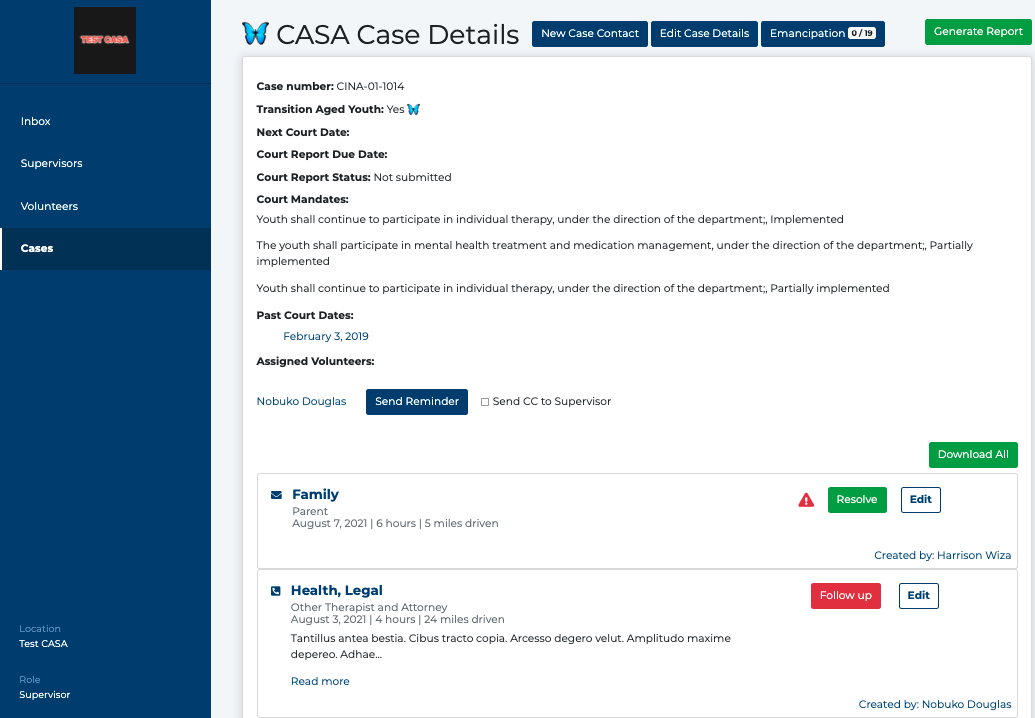
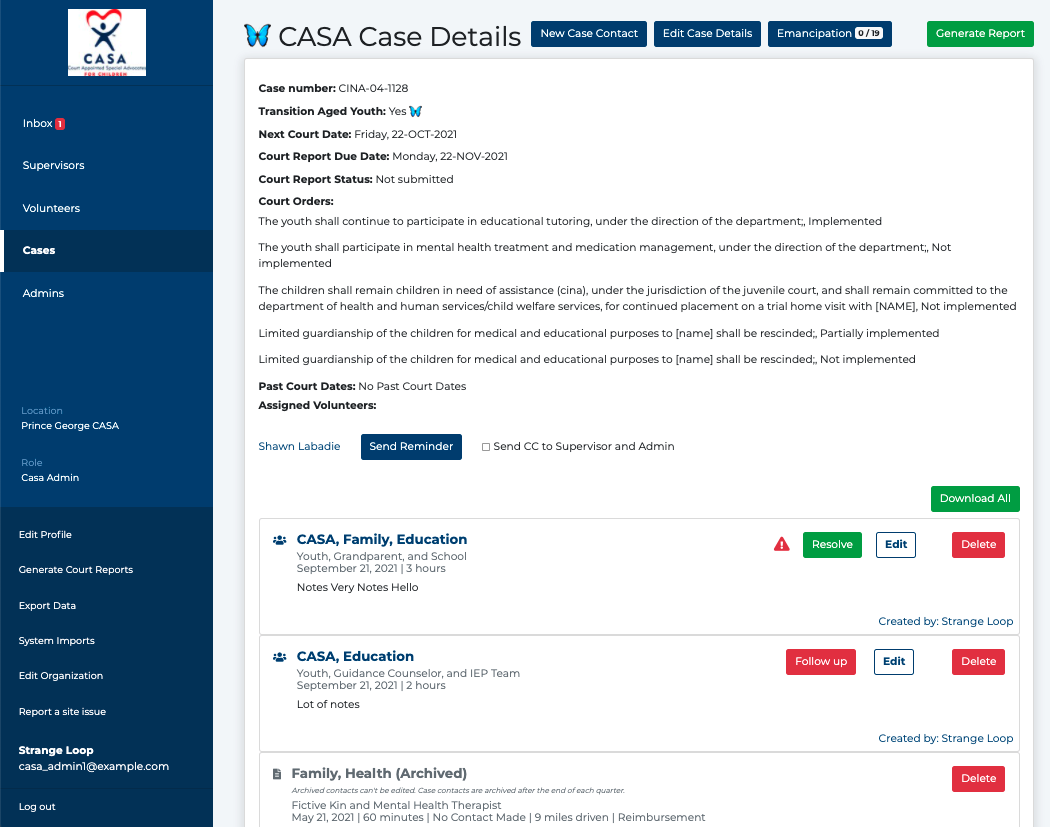
replace screenshot for case page. More notes edits.

diff --git a/presentations/casa/index.html b/presentations/casa/index.html
@@ -430,14 +430,18 @@
             <img src="confirm_note_content.png" style="max-width:90%;">
             <aside class="notes">
                 Here is the second half of the most important page, and the most important field on the most important
-                page.
-                Most important field is notes, avg 400 char. They are used by the volunteer when composing the court
-                report
+                page, which is notes. Notes in production average 400 - 1000 words. The vast majority of all case
+                contacts have notes.
             </aside>
         </section>
         <section>
             <img src="case_page.png" style="max-width:90%;">
             <aside class="notes">
+                When a case contact has been created, you come back to the case details page.
+                Every button here was a github issue- there are dozens of pull requests showing on this page.
+                Some highlights-
+                The butterfly emoji is a visual representation of a transition aged youth- teenaged.
+                The Court Mandates
                 Too much weeds- each button a separate issue- maybe 100 here. Note the court mandates/orders, the
                 generate (court) report, the emancipation (for transition aged youth).
             </aside>
